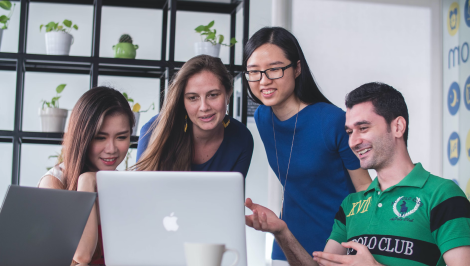
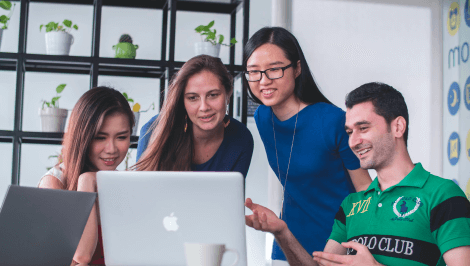
compress pictures

diff --git a/index.html b/index.html
@@ -52,7 +52,7 @@
     </menu>
     <div class="banner">
         <img src="img/pointer.png" />
-        <video src="img/banner.mp4" autoplay muted loop></video>
+        <video src="img/banner.mp4" poster="img/banner.png" autoplay muted loop></video>
     </div>
 
     <div class="main">
